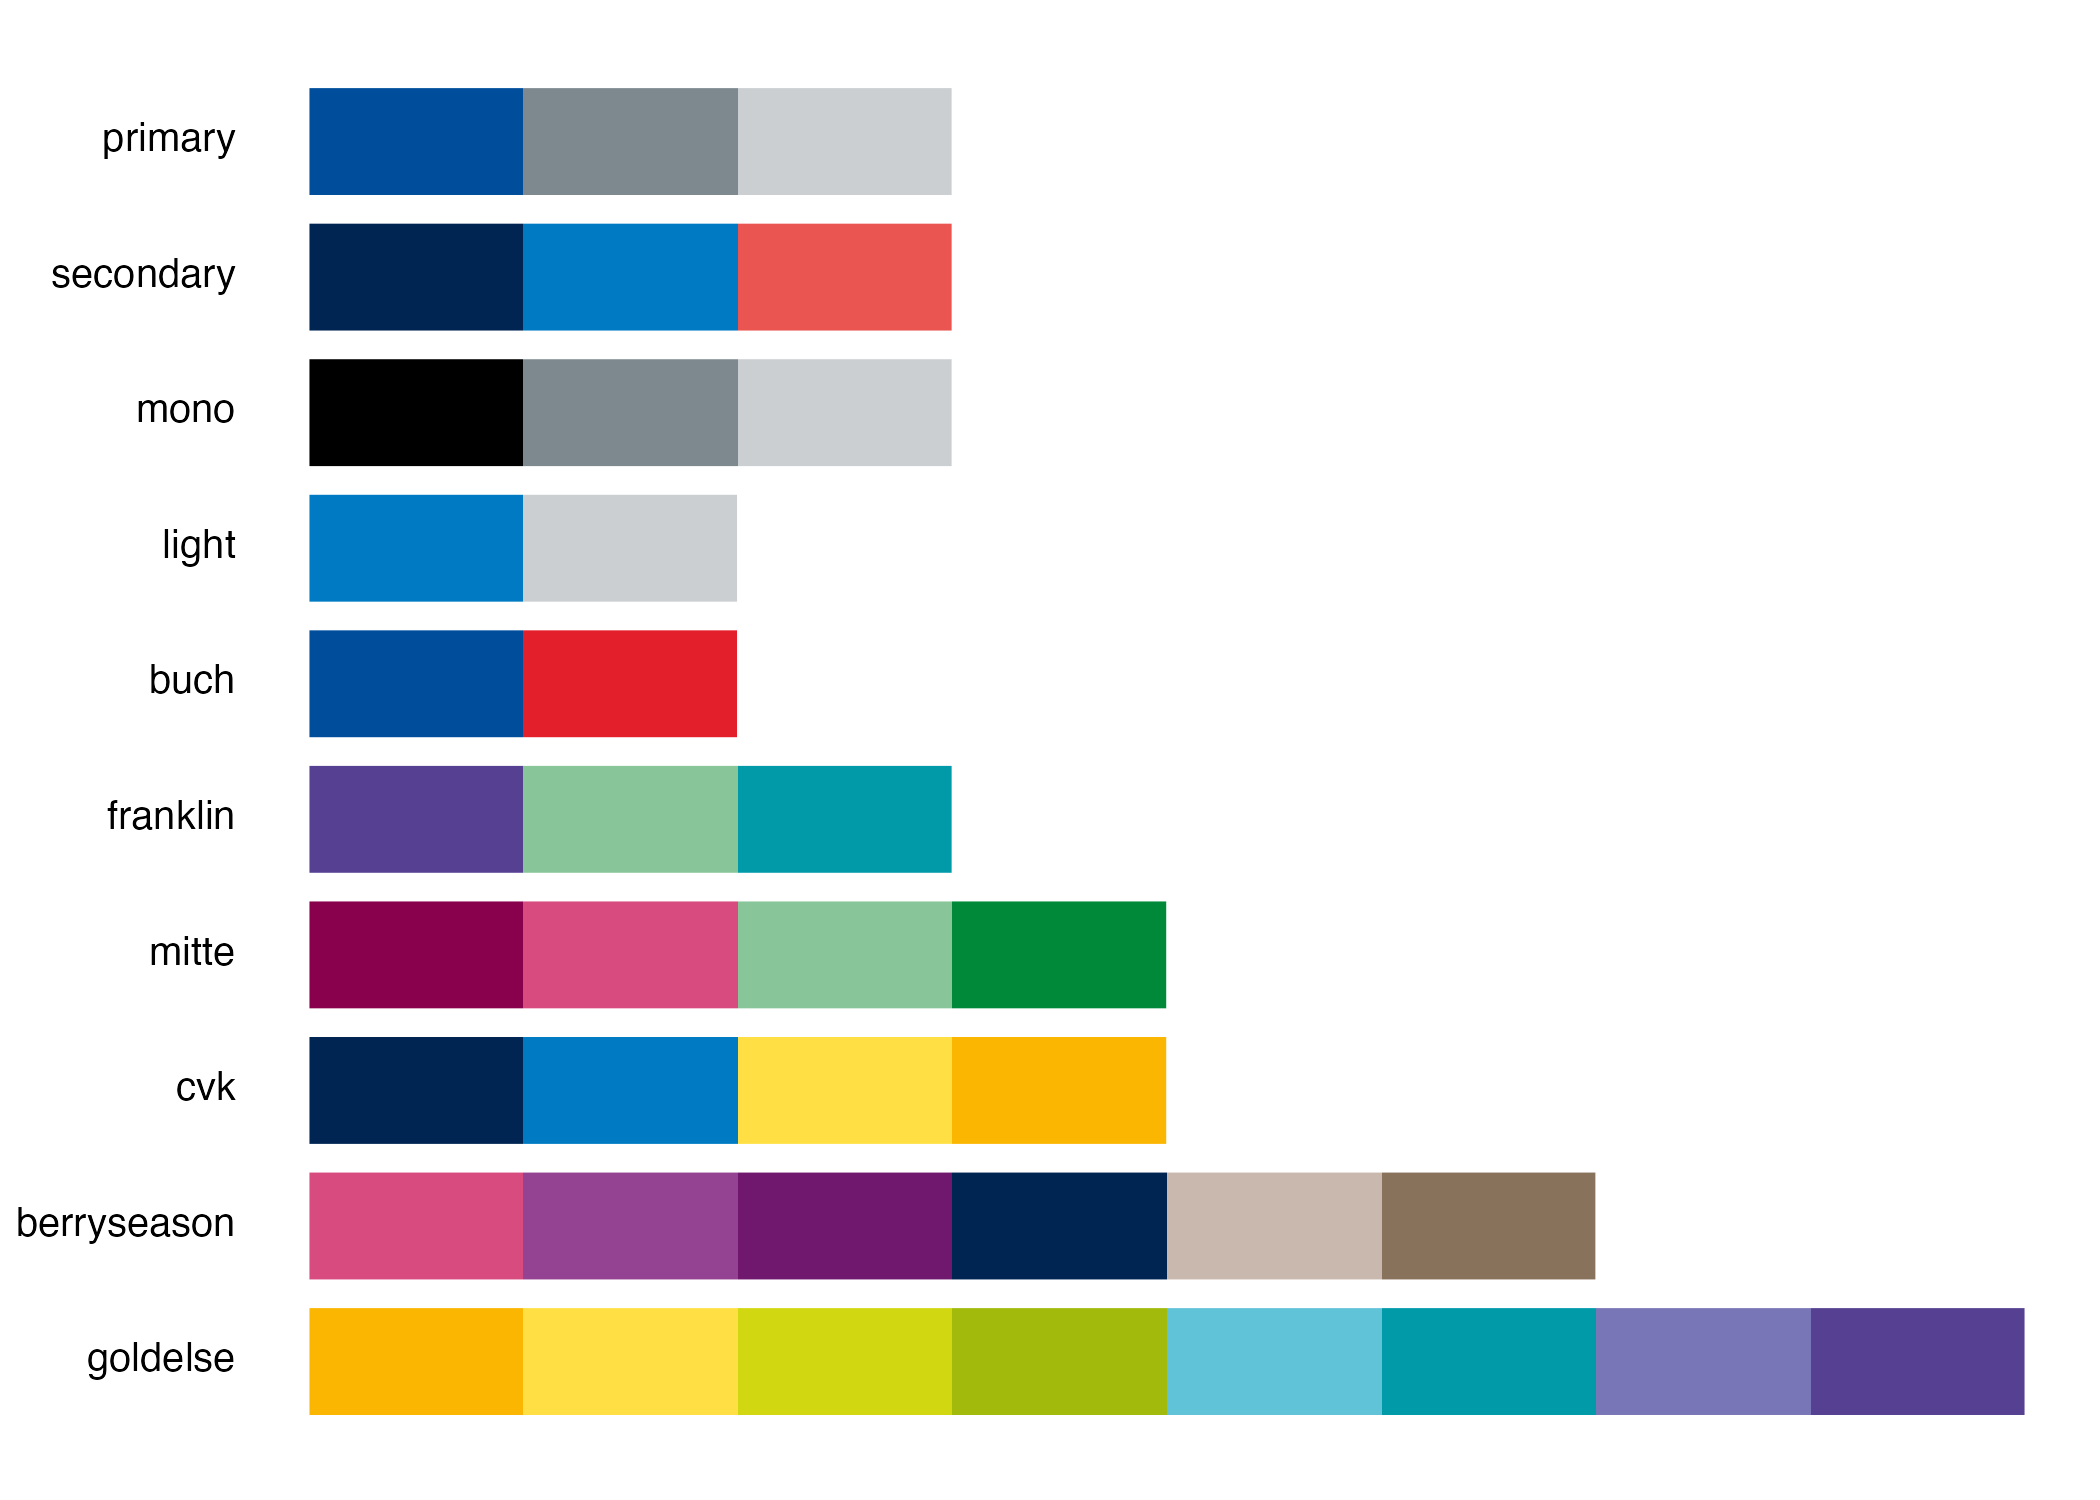
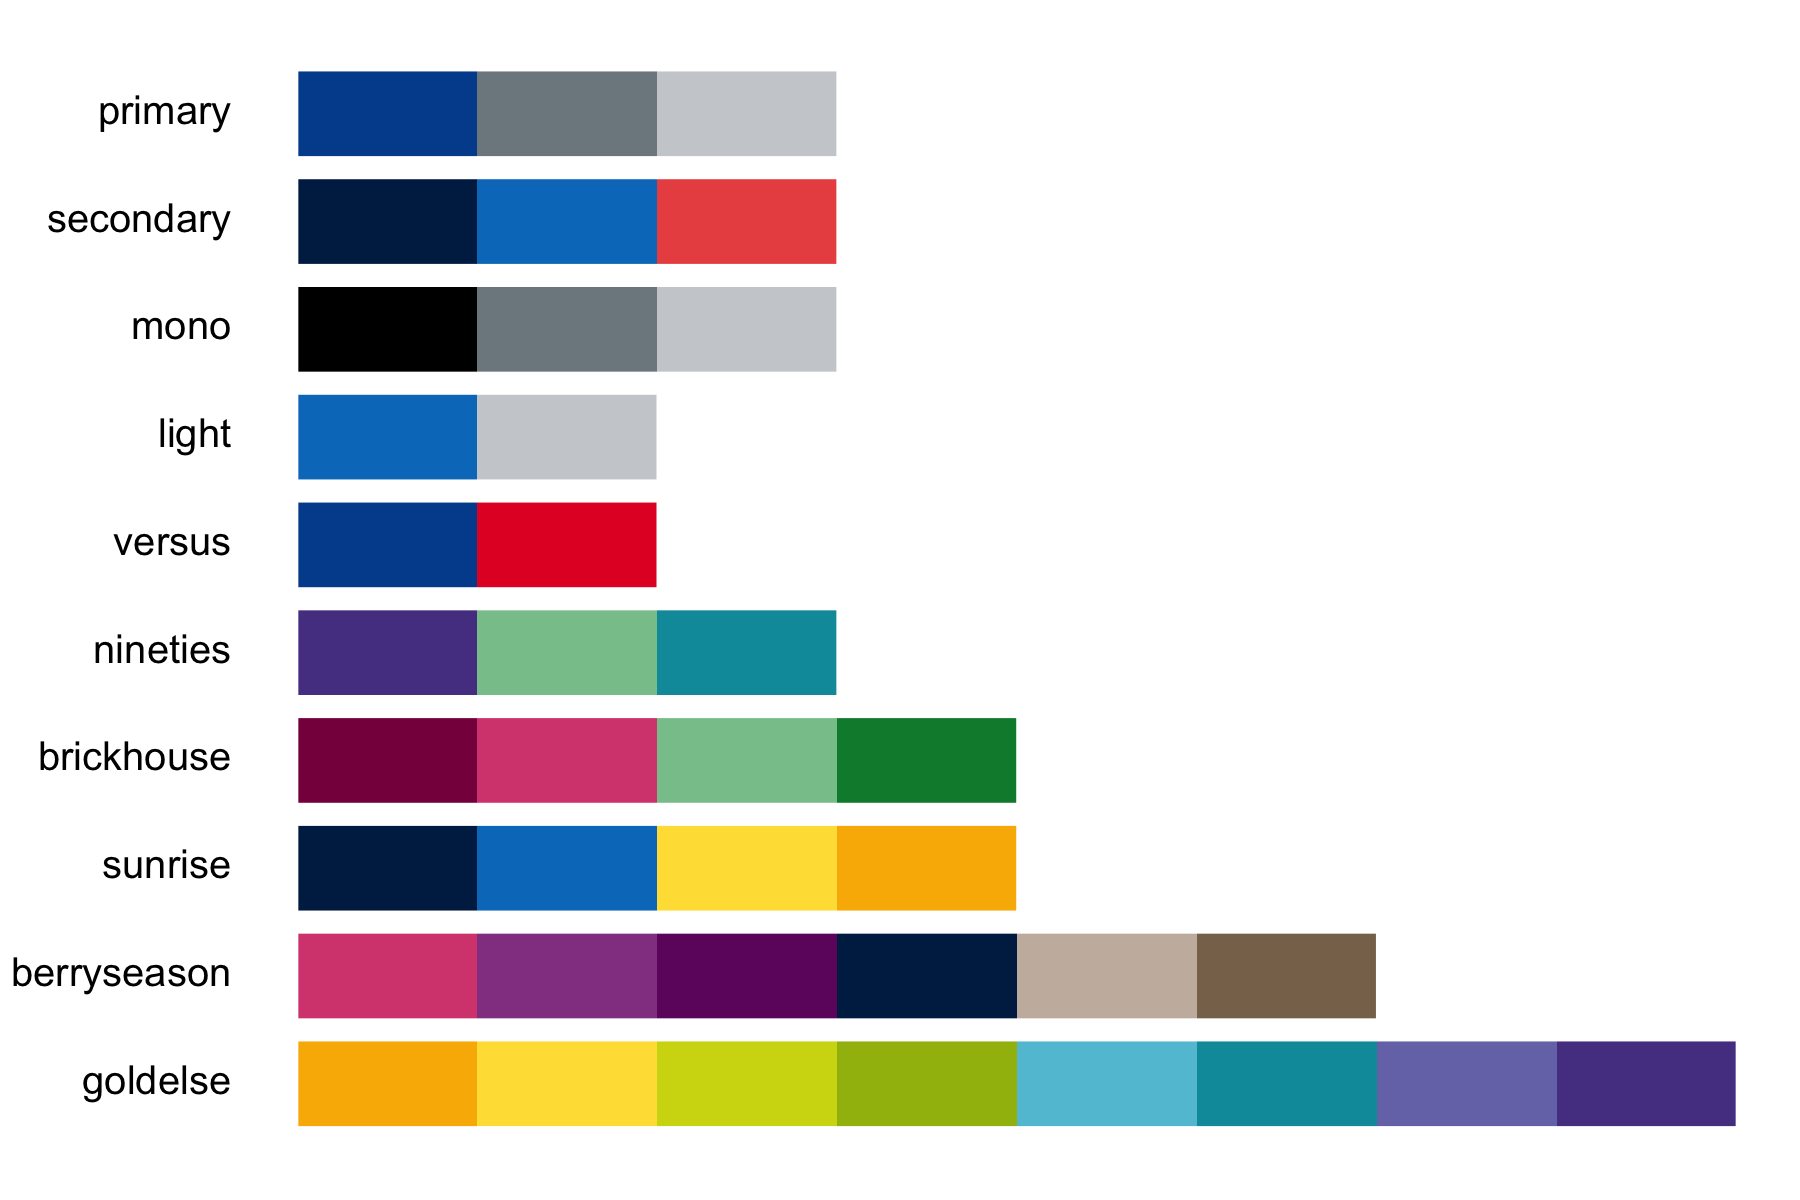
Updated the color palette names

Changed region(s): [[0.0, 0.0617, 0.9644, 0.9558], [0.4356, 0.0617, 0.4667, 0.3083]]

diff --git a/README.md b/README.md
@@ -25,7 +25,7 @@ devtools::install_github("johannesjuliusm/charite")
 To install the package on a machine with proxies, e.g., the standard
 Windows PC in the Charité network, find more detailed installation
 instructions in the [installation
-vignette](https://github.com/johannesjuliusm/charite/blob/main/doc/install_the_package.html).
+vignette](https://johannesjuliusm.github.io/charite/articles/install_the_package.html).
 
 ## Examples
 